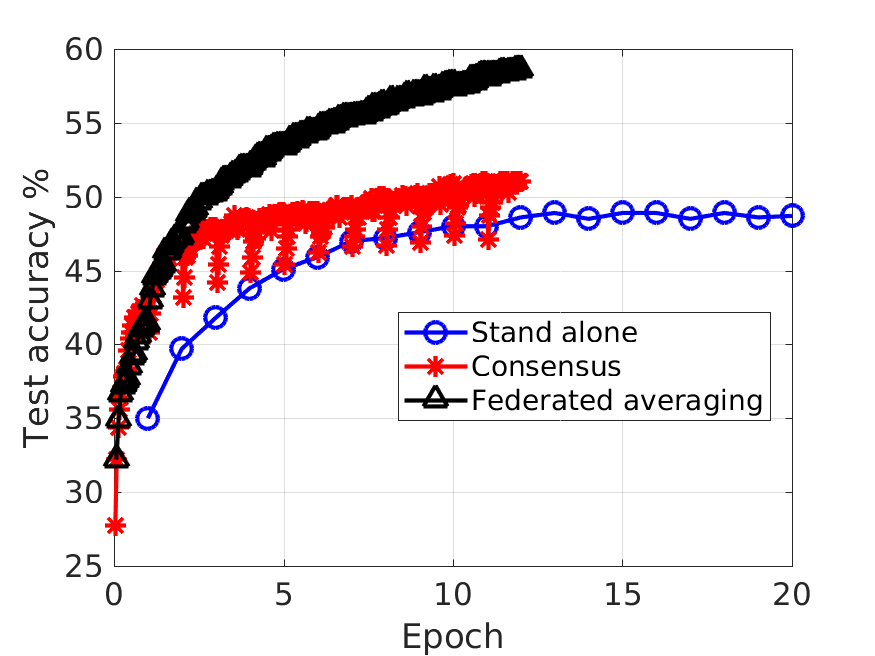
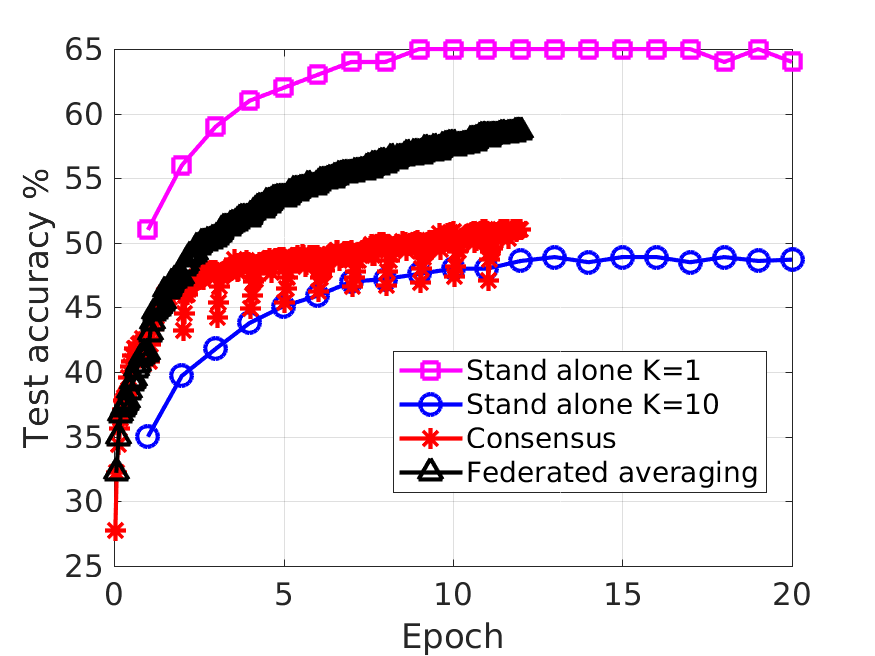
upper bound

Changed region(s): [[0.0617, 0.061, 0.9257, 0.8232], [0.0617, 0.1524, 0.1234, 0.2134], [0.0926, 0.061, 0.1234, 0.0915]]

diff --git a/README.md b/README.md
@@ -25,4 +25,4 @@ Files included are:
 
 <img src="comparison.png" alt="test accuracy for training K=10 models" width="700"/>
 
-This images compares training K=10 models, stad alone ```no_consensus_multi.py```, with consensus optimization ```consensus_multi.py``` and with federated averaging ```federated_multi.py```.
+This images compares training K=1 and K=10 models, stad alone training using ```no_consensus_multi.py```, with consensus optimization ```consensus_multi.py``` and with federated averaging ```federated_multi.py```. The upper bound is using the full dataset for training ( K=1 ) while using 1/K of the data gives the lower bound.
